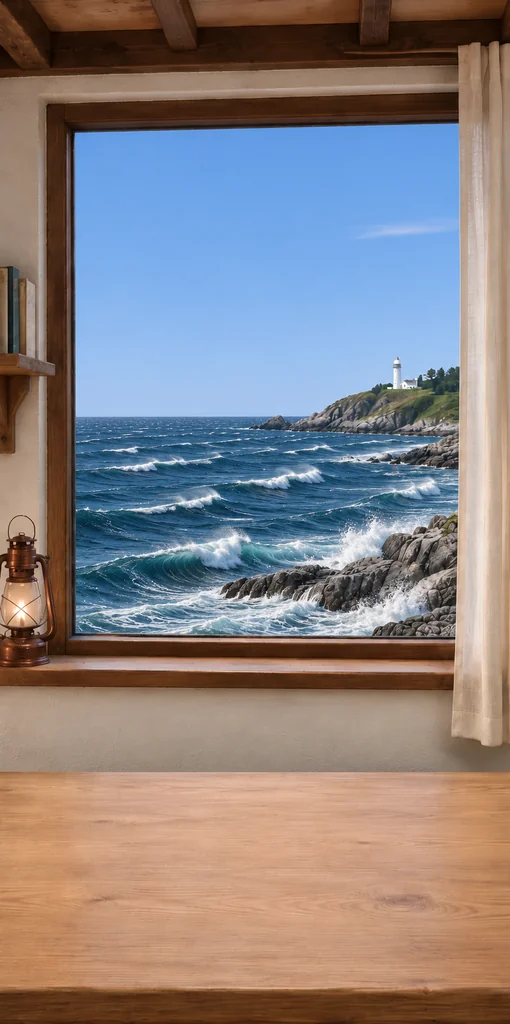
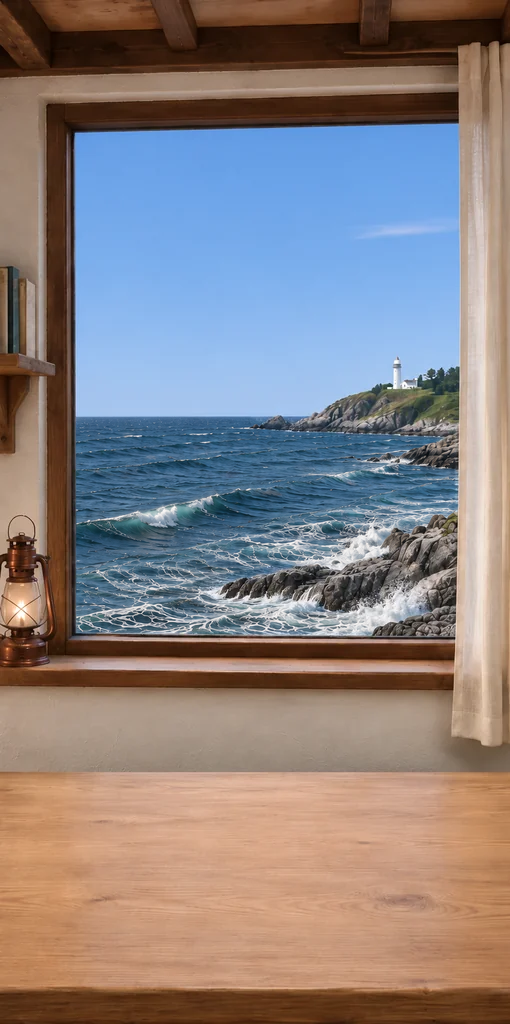
fix: sync East Sea coastal foam preview

Changed region(s): [[0.1471, 0.4062, 0.9118, 0.625]]

diff --git a/design/prototypes/bloombreak-premium-backgrounds.html b/design/prototypes/bloombreak-premium-backgrounds.html
@@ -12,13 +12,14 @@ details{padding:.5rem .8rem;background:#fff;border-radius:.6rem}
 #previews{display:grid;grid-template-columns:repeat(auto-fit,minmax(16rem,1fr));gap:1rem}
 section{padding:.75rem;background:#fff;border-radius:.8rem}
 </style>
-<script src="../../web/premium-scene-previews.js?v=surf-loop-1" defer></script>
+<script src="../../web/premium-scene-previews.js?v=rocky-coast-surf-1" defer></script>
 </head>
 <body>
 <main>
 <h1>유료 배경 미리보기</h1>
 <details id="design-history" open>
-<summary>수정 이력 · v1.6.0</summary>
+<summary>수정 이력 · v1.7.0</summary>
+<p>2026-11-21 · v1.7.0 · 바람을 켜면 푸른 동해의 파도가 고르지 않은 간격으로 밀려온다. 바위 주변에서 흰 포말이 갈라지고 퍼졌다가 얇아지며 빠지는 7초 흐름을 표현했다.</p>
 <p>2026-11-21 · v1.6.0 · 바람을 직접 켜면 동해의 파도와 흰 포말이 3초 주기로 이어서 움직인다. 서울 옥탑방의 화단은 뒤쪽 난간과 나란하도록 가로로 배치했다.</p>
 <p>2026-11-21 · v1.5.1 · 동해는 바람을 켜면 첫 화면부터 바위 앞 파도와 흰 포말을 표시한다. 기기의 동작 줄이기 설정에서도 정지한 파도가 보인다.</p>
 <p>2026-11-21 · v1.5.0 · 옥탑방·동해 등대집은 낮 원본 좌표에 노을과 밤의 하늘·조명을 합성. 바람을 날씨에서 분리. 동해에 큰 쇄파와 포말, 호숫가에 잔잔한 물결과 반사를 표현. APK 발행 전.</p>

diff --git a/web/premium-scene-previews.js b/web/premium-scene-previews.js
@@ -190,7 +190,7 @@
     }
   }
 
-  const imageRevision = '?v=day-framing-wind-3';
+  const imageRevision = '?v=rocky-coast-surf-1';
   const surfPhoto = 'assets/premium-scene-previews/east-sea-lighthouse-wind-surf.webp';
   const surfLoop = 'assets/premium-scene-previews/east-sea-lighthouse-surf-loop.webp';
   const language = () => /^en/i.test(root.document.documentElement.lang) ? 1 : 0;

diff --git a/design/README.md b/design/README.md
@@ -124,4 +124,4 @@
 
 ## 유료 배경 미리보기 (2026-11-21)
 
-- [서울 옥탑방 · 동해 등대가 보이는 집 · 호숫가 오두막](prototypes/bloombreak-premium-backgrounds.html) v1.6.0. 동해는 바람 켜짐에서 3초 파도 영상을 반복 재생하고, 옥탑방은 뒤쪽 난간과 나란한 가로 화단을 보여준다. 동해는 첫 애니메이션 프레임 전과 동작 줄이기 설정에서도 바위 앞 파도와 포말을 표시한다. 옥탑방·동해 등대집은 시간에 관계없이 낮 원본 구도 위에 하늘·조명만 바꾼다. 맑음·비·눈과 바람은 독립적으로 조절하며 동해는 쇄파·포말, 호숫가는 잔잔한 수면 움직임을 보여준다. 서울 옥탑방 실외기를 작은 나무 화단으로 바꾼다. 낮을 기준으로 시간대별 창틀·수평선·상판 위치를 보정하고, 옥탑방과 등대집의 창은 왼쪽으로 연다. 바람에는 동해 파도와 포말, 호숫가 잔물결과 반사를 수면에만 표현한다. 공간별로 낮·저녁(노을)·밤과 맑음·비·눈을 조합한 원본 9장과 실외 날씨 마스크를 시연한다. 맑은 낮은 구름을 최소화하고 저녁은 태양 없이 물든 구름만 보이며, 밤은 어두운 실외와 점등된 실내를 대비시킨다. 비·눈 원본은 구름, 젖은 실외 표면이나 쌓인 눈을 표현한다. 서울 옥탑방과 동해 등대집의 창은 맑고 온화한 낮·노을에 열고 밤·비·눈·흐림·10°C 미만에 닫는다. 동해의 평상시 해면은 잔잔하고 바람에는 파도와 포말이 움직인다. 개발 웹·Android 공통 자산 적용, 발행 APK 확인 전.
+- [서울 옥탑방 · 동해 등대가 보이는 집 · 호숫가 오두막](prototypes/bloombreak-premium-backgrounds.html) v1.7.0. 동해는 불규칙하게 밀려든 파도가 바위 둘레로 퍼졌다가 물러나는 7초 반복 효과를 보여준다. 옥탑방 화단은 뒤쪽 난간과 나란하다. 동해는 첫 애니메이션 프레임 전과 동작 줄이기 설정에서도 바위 앞 파도와 포말을 표시한다. 옥탑방·동해 등대집은 시간에 관계없이 낮 원본 구도 위에 하늘·조명만 바꾼다. 맑음·비·눈과 바람은 독립적으로 조절하며 동해는 쇄파·포말, 호숫가는 잔잔한 수면 움직임을 보여준다. 서울 옥탑방 실외기를 작은 나무 화단으로 바꾼다. 낮을 기준으로 시간대별 창틀·수평선·상판 위치를 보정하고, 옥탑방과 등대집의 창은 왼쪽으로 연다. 바람에는 동해 파도와 포말, 호숫가 잔물결과 반사를 수면에만 표현한다. 공간별로 낮·저녁(노을)·밤과 맑음·비·눈을 조합한 원본 9장과 실외 날씨 마스크를 시연한다. 맑은 낮은 구름을 최소화하고 저녁은 태양 없이 물든 구름만 보이며, 밤은 어두운 실외와 점등된 실내를 대비시킨다. 비·눈 원본은 구름, 젖은 실외 표면이나 쌓인 눈을 표현한다. 서울 옥탑방과 동해 등대집의 창은 맑고 온화한 낮·노을에 열고 밤·비·눈·흐림·10°C 미만에 닫는다. 동해의 평상시 해면은 잔잔하고 바람에는 파도와 포말이 움직인다. 개발 웹·Android 공통 자산 적용, 발행 APK 확인 전.
